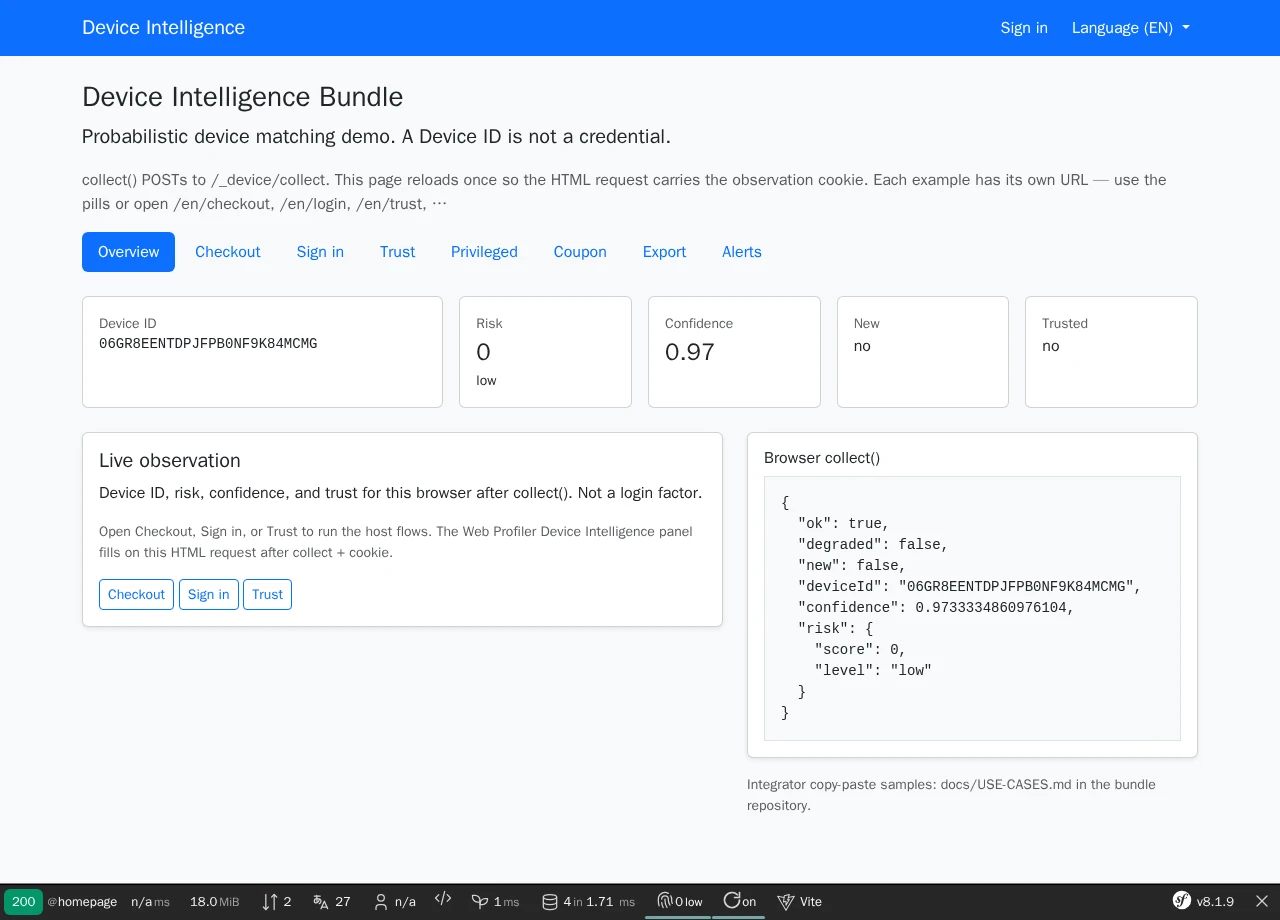
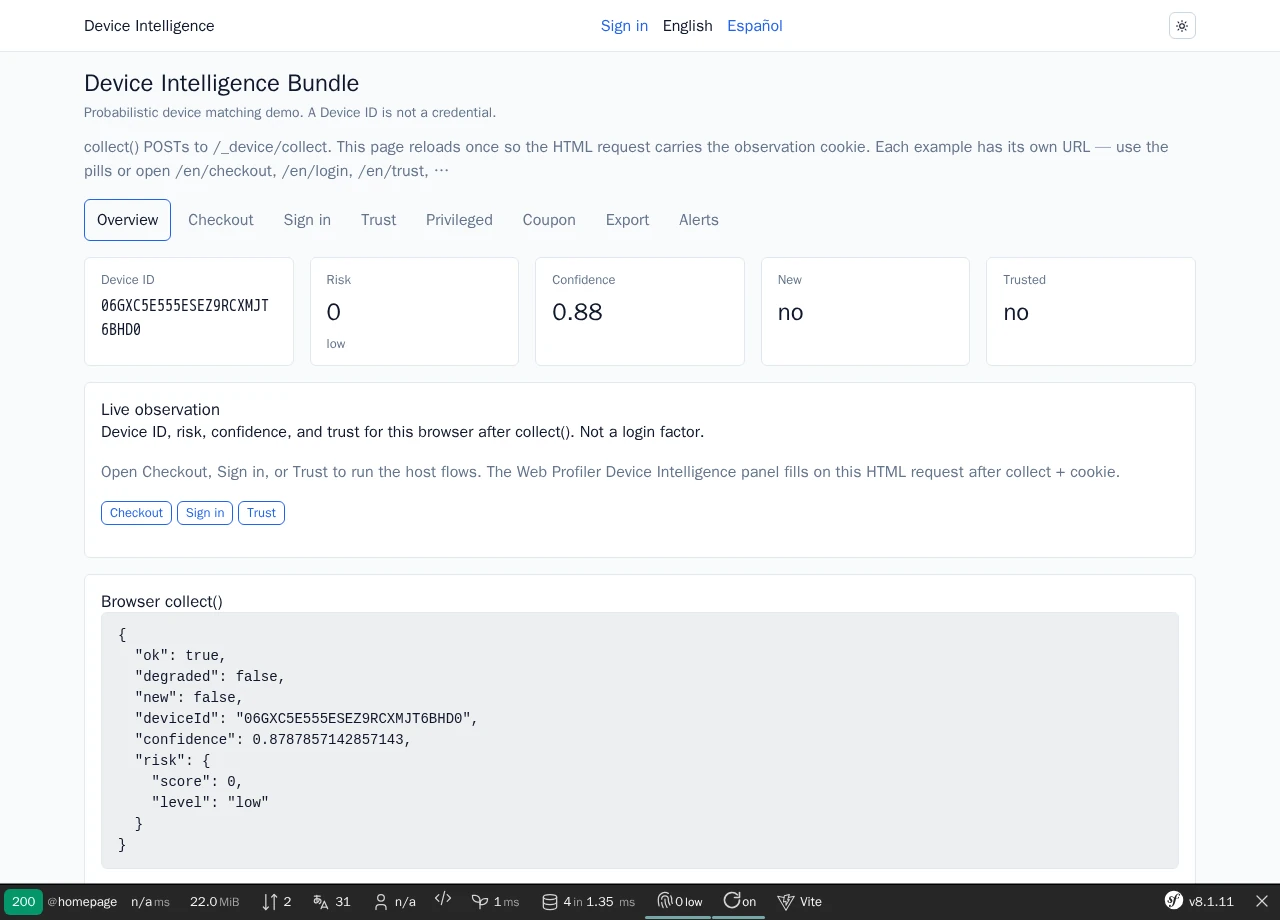
chore(docs): refresh demo screenshots on the UiKit base style (#66)
* chore(docs): refresh demo screenshots on the UiKit base style

* chore(docs): demo opts into UiKit base theme, masthead nav fixed, screenshots regenerated

diff --git a/docs/CHANGELOG.md b/docs/CHANGELOG.md
@@ -93,6 +93,11 @@ and this project adheres to [Semantic Versioning](https://semver.org/spec/v2.0.0
 
 ## [Unreleased]
 
+### Changed
+
+- docs: demo screenshots regenerated on the UiKit base style
+- demo: opt into UiKit 2.51 `nowo_ui_kit.base_stylesheet`, use `nowo-ui-header__nav` for the masthead nav, screenshots regenerated with the themed shell
+
 ## [1.9.2] - 2026-11-13
 
 ### Security
